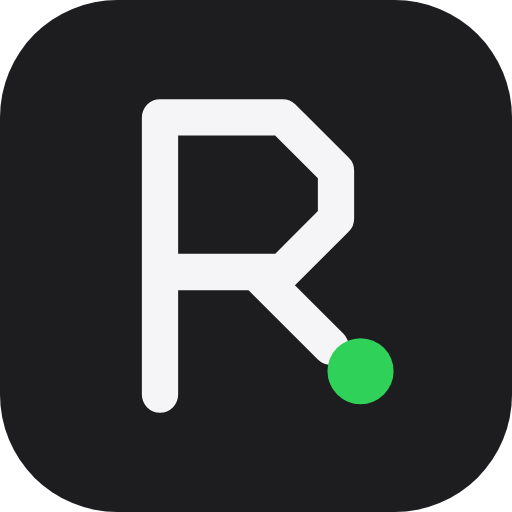
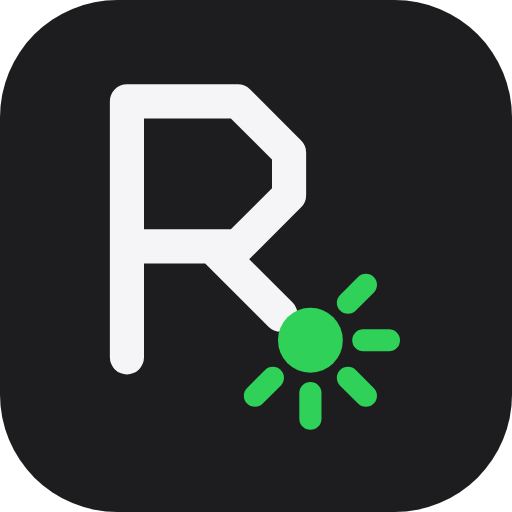
Brilho: o LED do R irradia nos tamanhos grandes
Ícone de app, ícone do iPhone e imagem de compartilhamento passam a
usar o Brilho; cabeçalho, rodapé e favicon continuam com o pad aceso.

Changed region(s): [[0.1875, 0.1562, 0.7812, 0.8438]]

diff --git a/assets/og-fonte.html b/assets/og-fonte.html
@@ -9,6 +9,8 @@
         background: radial-gradient(70% 80% at 85% 105%, rgb(41 151 255 / .42), transparent 70%); }
   .og .marca { display: flex; align-items: center; gap: 8px; color: var(--texto); }
   .og .marca svg { width: 64px; height: 64px; margin: 0 -8px 0 -10px; }
+  .og .brilho { position: absolute; right: 70px; top: 120px; width: 380px; height: 380px; }
+  .og .brilho .marca-traco { stroke: #f5f5f7; stroke-width: 2.6; opacity: .92; }
   .og .marca-traco { stroke-width: 3.6; }
   .og .nome { font-size: 44px; }
   .og .nome .i i { animation: none; opacity: 1; }
@@ -18,5 +20,6 @@
 <div class="og">
   <div class="marca"><svg viewBox="0 0 48 48"><path class="marca-traco" d="M13 39V9h13l6 6v5l-6 6H13M23 26l8.5 8.5"/><circle class="marca-pad" cx="34.2" cy="37.2" r="3.3"/></svg><span class="nome">rl<span class="i">ı<i></i></span>ght</span></div>
   <h1>Do silício<br><span class="gradiente">a quem usa.</span></h1>
+  <svg class="brilho" viewBox="0 0 48 48"><path class="marca-traco" d="M10 38V8h13l6 6v5l-6 6H10M20 25l8 8"/><circle cx="31.5" cy="36" r="3" fill="#30d158"/><path d="M37.7 36h3M35.9 40.4l2.1 2.1M31.5 42.2v3M27.1 40.4l-2.1 2.1M35.9 31.6l2.1-2.1" fill="none" stroke="#30d158" stroke-width="1.6" stroke-linecap="round"/></svg>
   <p>Estúdio de engenharia de Willian Rupert · Recife</p>
 </div>

diff --git a/README.md b/README.md
@@ -19,5 +19,11 @@ com o servidor local no ar:
 "/Applications/Google Chrome.app/Contents/MacOS/Google Chrome" --headless=new --window-size=1200,630 --screenshot=assets/og.png http://localhost:8766/assets/og-fonte.html
 ```
 
-A marca mora em `assets/marca/`: `icone.svg` (o Traço), `app.svg` (ícone de app)
-e `app-quadrado.svg` (base do `apple-touch-icon.png`, sem cantos, que o iOS arredonda).
+A marca mora em `assets/marca/`. O símbolo se simplifica conforme encolhe:
+
+- `brilho.svg`: o R com o LED irradiando, para tamanhos grandes (imagem de
+  compartilhamento, ícone de app, avatar).
+- `icone.svg`: o mesmo R só com o pad aceso, para tamanhos pequenos (cabeçalho,
+  rodapé, favicon).
+- `app.svg` e `app-quadrado.svg`: o Brilho sobre grafite; o quadrado, sem cantos,
+  é a base do `apple-touch-icon.png`, que o iOS arredonda sozinho.
